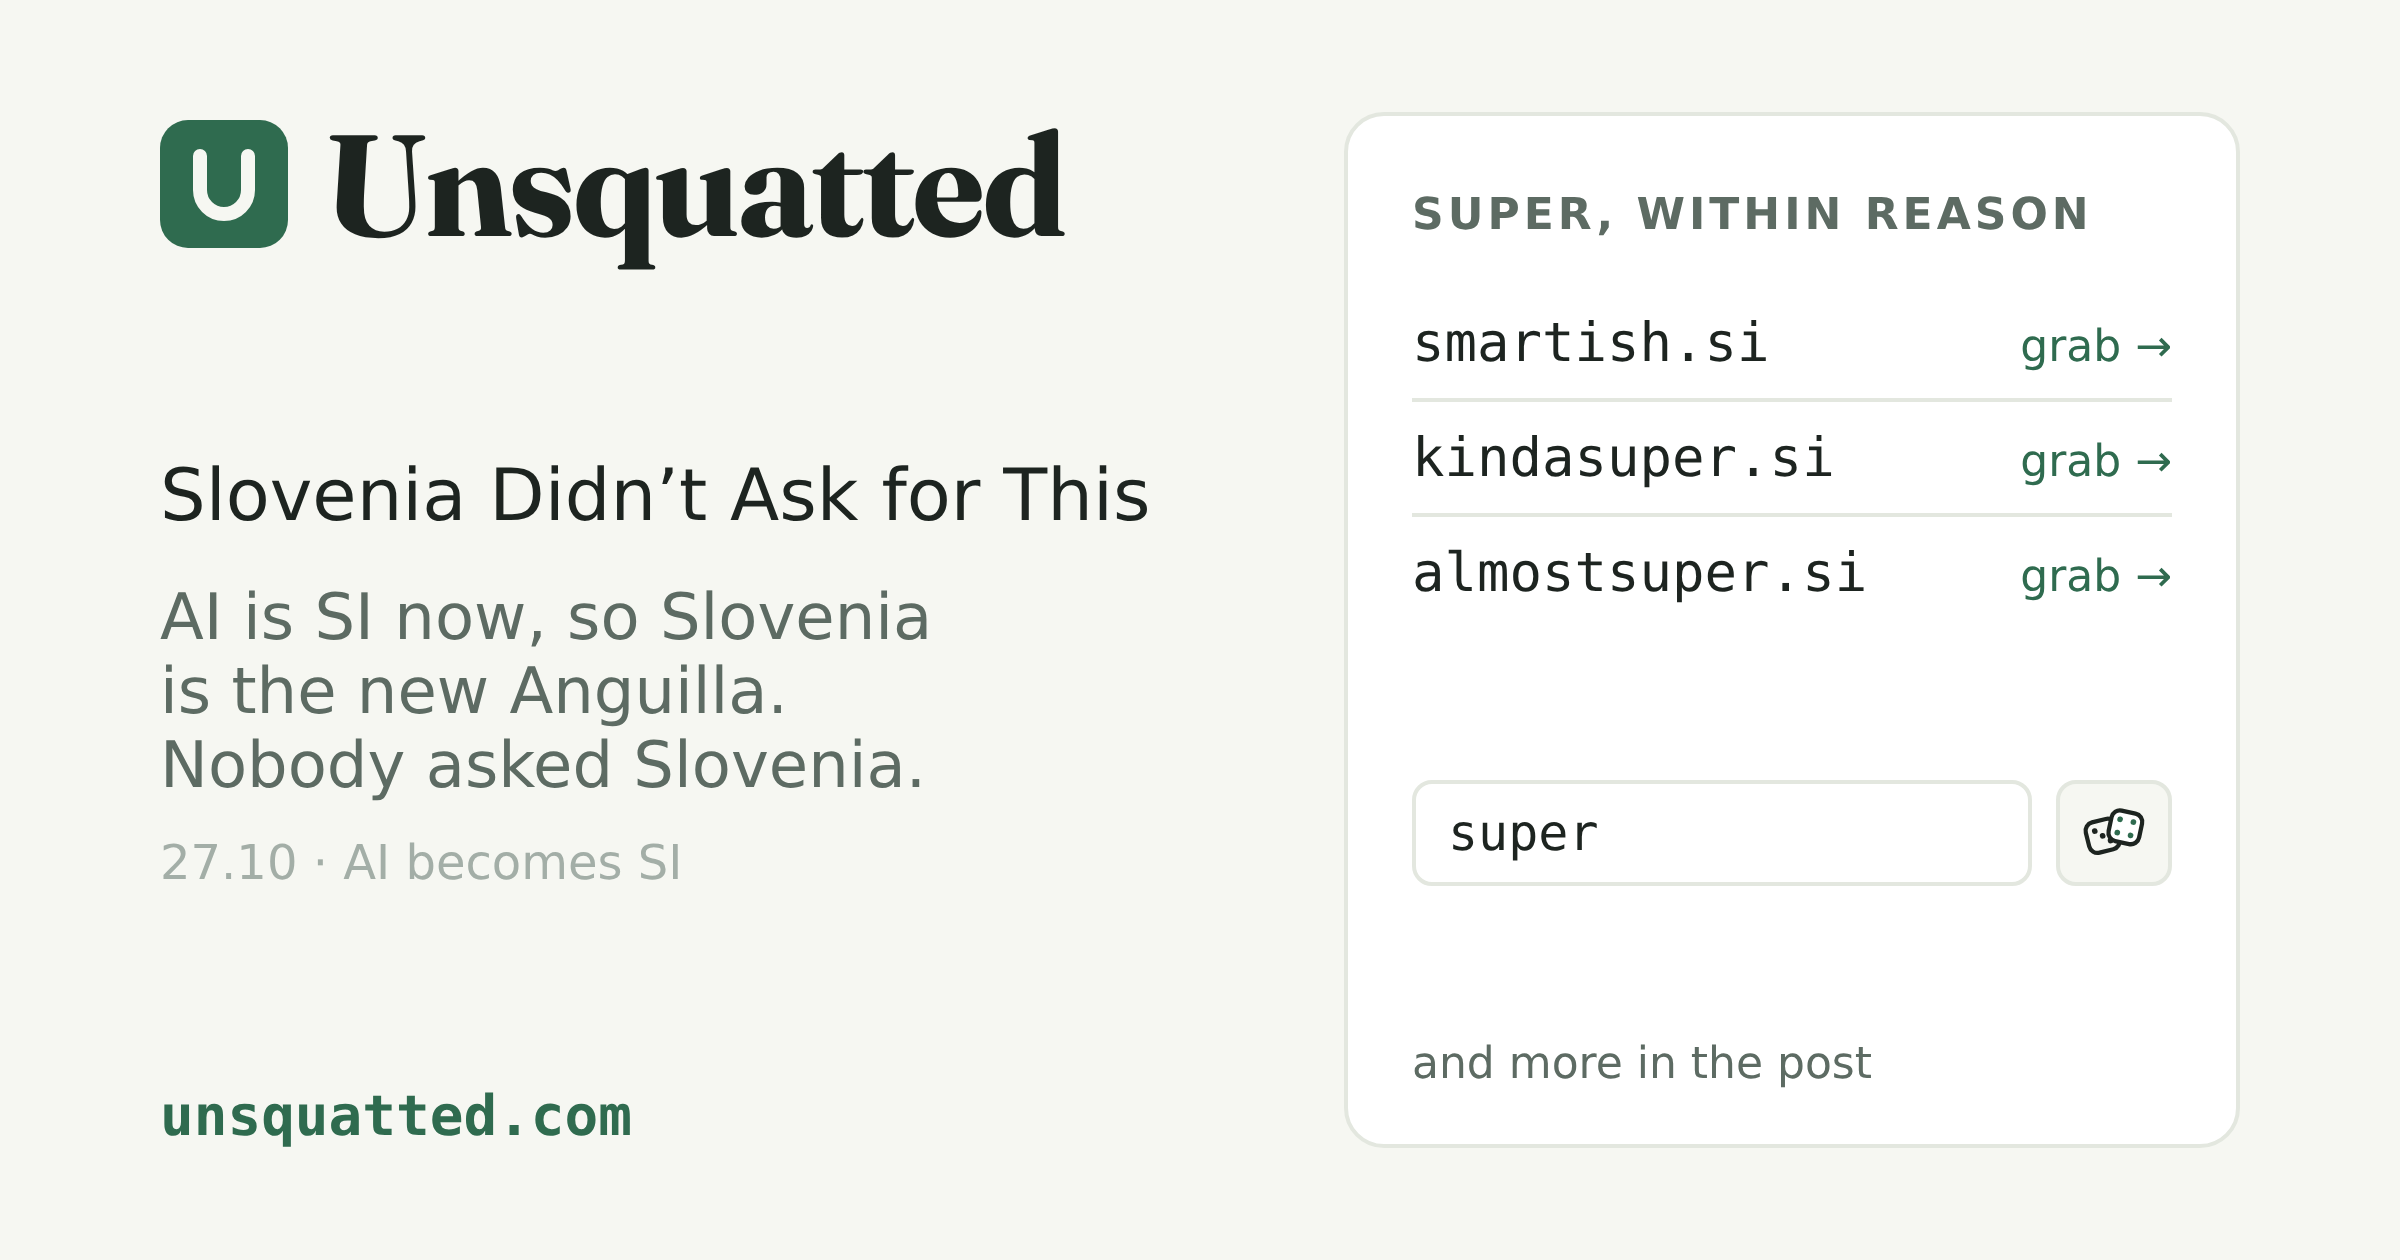
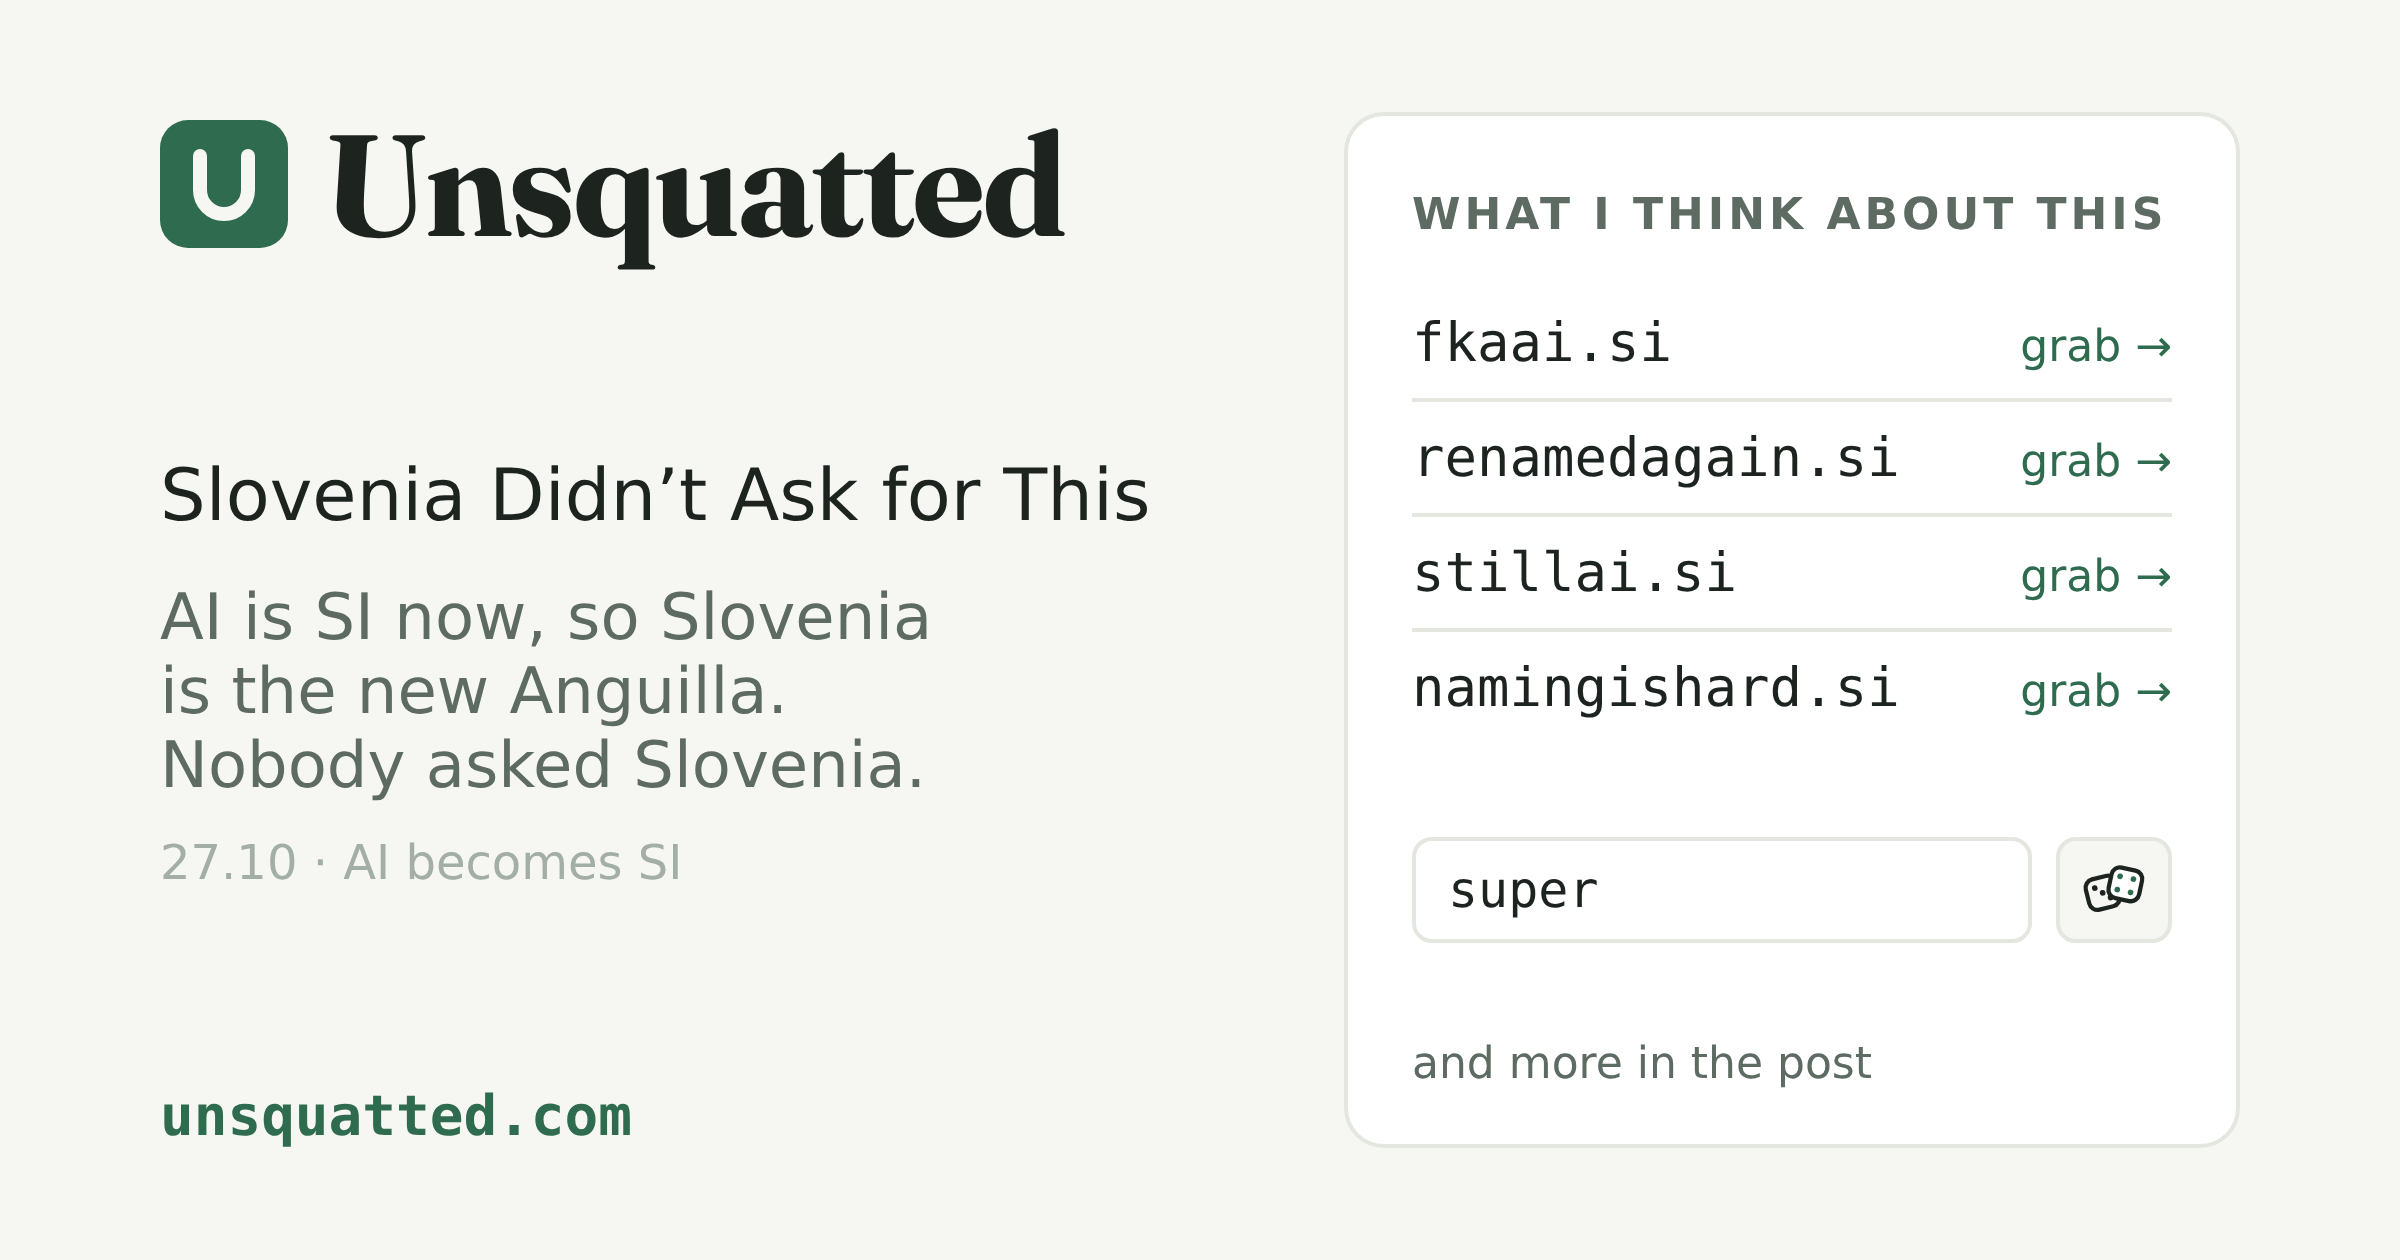
feat(unsquatted): the .si post answers with names near its top
The operator found the first widget too far down («слишком долго до него
листать»), so a domains list, "What I think about this", follows the
opening: fkaai.si, renamedagain.si, stillai.si and namingishard.si, free
catalogue picks with post: super-intelligence, sarcastic about the
rename and never about anyone. The later list's line on live verdicts
moves up with it, and the post's card now draws this first list.

Claude-Session: https://claude.ai/code/session_01DaohkD2xbbCSgVQCsK3HmH

diff --git a/sites/unsquatted/public/blog/super-intelligence.md b/sites/unsquatted/public/blog/super-intelligence.md
@@ -18,6 +18,23 @@ name, it said, is SI: Super Intelligence.
 I run a site about names. I read that post and did what anyone in my line of
 work would do: I opened a new tab and typed `.si`.
 
+Want to know what I think about it? Here, in the only language I’m fluent in:
+
+:::domains{label="What I think about this"}
+
+- fkaai.si
+- renamedagain.si
+- stillai.si
+- namingishard.si
+
+:::
+
+`fkaai.si` is “formerly known as AI,” which is all a rename ever says.
+`renamedagain.si` is because this was the third time; more on that in a minute.
+`stillai.si` is what it is underneath, whatever the letters say. `namingishard.si` is the one thing every programmer agrees on. All four
+were free when I wrote this, and the verdicts are live, so you’ll know if that’s
+changed. The rest of this post is the long version.
+
 ## Two letters after the dot
 
 Here is the thing about two-letter domains. They aren’t words. They are
@@ -83,9 +100,9 @@ that it is fine, thank you, and the price hasn’t changed.
 ## Super, within reason
 
 I went looking anyway, because that’s the job. The grand names are gone. What’s
-left is modest, which I find more relatable. The verdicts below are live, so if
-one of them says _taken_, someone read this before you did, and I’m choosing to
-take that as a compliment.
+left is modest, which I find more relatable. If one of them says _taken_,
+someone read this before you did, and I’m choosing to take that as a
+compliment.
 
 :::domains{label="Super, within reason"}
 
